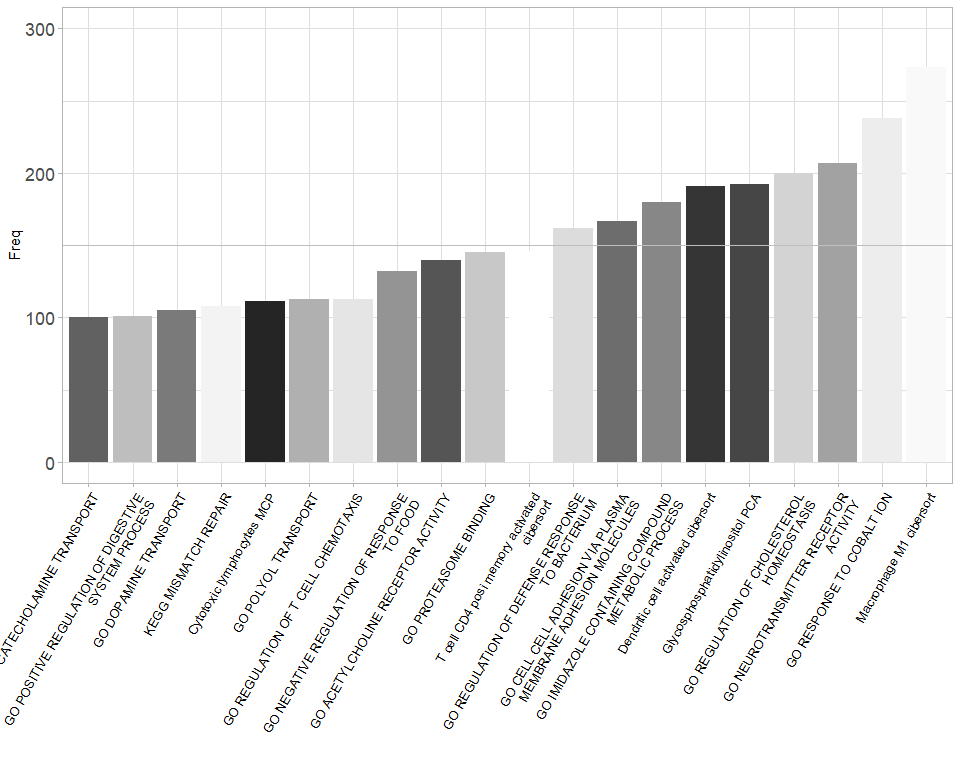
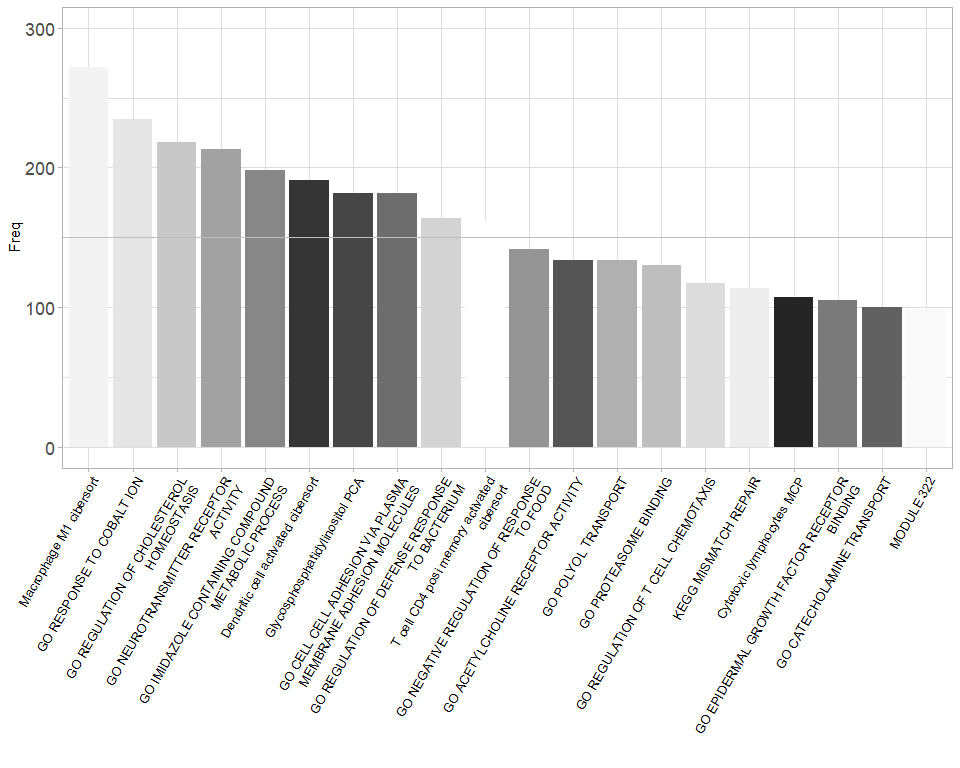
UPDATE plot function

diff --git a/README.md b/README.md
@@ -68,16 +68,16 @@ res<-best_predictor_cox(target_data = target,
 ``` r
 head(res$res, n = 10)
 #>                                                             res Freq
-#> 1                                       Macrophage M1 cibersort  273
-#> 2                                     GO RESPONSE TO COBALT ION  238
-#> 3                         GO NEUROTRANSMITTER RECEPTOR ACTIVITY  207
-#> 4                      GO REGULATION OF CHOLESTEROL HOMEOSTASIS  200
-#> 5                                Glycosphosphatidylinositol PCA  192
+#> 1                                       Macrophage M1 cibersort  272
+#> 2                                     GO RESPONSE TO COBALT ION  235
+#> 3                      GO REGULATION OF CHOLESTEROL HOMEOSTASIS  218
+#> 4                         GO NEUROTRANSMITTER RECEPTOR ACTIVITY  213
+#> 5            GO IMIDAZOLE CONTAINING COMPOUND METABOLIC PROCESS  198
 #> 6                            Dendritic cell activated cibersort  191
-#> 7            GO IMIDAZOLE CONTAINING COMPOUND METABOLIC PROCESS  180
-#> 8  GO CELL CELL ADHESION VIA PLASMA MEMBRANE ADHESION MOLECULES  167
-#> 9                GO REGULATION OF DEFENSE RESPONSE TO BACTERIUM  162
-#> 10                   T cell CD4 posi memory activated cibersort  146
+#> 7                                Glycosphosphatidylinositol PCA  182
+#> 8  GO CELL CELL ADHESION VIA PLASMA MEMBRANE ADHESION MOLECULES  182
+#> 9                GO REGULATION OF DEFENSE RESPONSE TO BACTERIUM  164
+#> 10                   T cell CD4 posi memory activated cibersort  162
 ```
 
 ## Usage-2: Binomial model
@@ -98,16 +98,16 @@ res<-best_predictor_binomial(target_data = target,
 ``` r
 head(res$res, n = 10)
 #>                                                               res Freq
-#> 2                                         Macrophage M1 cibersort  279
-#> 3                                       GO RESPONSE TO COBALT ION  275
-#> 4                        GO REGULATION OF CHOLESTEROL HOMEOSTASIS  252
-#> 5                     GO SOMATIC STEM CELL POPULATION MAINTENANCE  246
-#> 6  GO RECEPTOR SIGNALING PROTEIN SERINE THREONINE KINASE ACTIVITY  238
-#> 7                           GO NEUROTRANSMITTER RECEPTOR ACTIVITY  235
-#> 8                              Dendritic cell activated cibersort  226
-#> 9                                      GO CENTROSOME LOCALIZATION  219
-#> 10                                                      GO M BAND  215
-#> 11                GO VERY LONG CHAIN FATTY ACID METABOLIC PROCESS  206
+#> 2                                         Macrophage M1 cibersort  280
+#> 3                                       GO RESPONSE TO COBALT ION  274
+#> 4                     GO SOMATIC STEM CELL POPULATION MAINTENANCE  252
+#> 5                                                       GO M BAND  241
+#> 6                           GO NEUROTRANSMITTER RECEPTOR ACTIVITY  236
+#> 7                        GO REGULATION OF CHOLESTEROL HOMEOSTASIS  236
+#> 8                              Dendritic cell activated cibersort  233
+#> 9  GO RECEPTOR SIGNALING PROTEIN SERINE THREONINE KINASE ACTIVITY  224
+#> 10                                     GO CENTROSOME LOCALIZATION  215
+#> 11                                 Glycosphosphatidylinositol PCA  207
 ```
 
 ## Session Info
